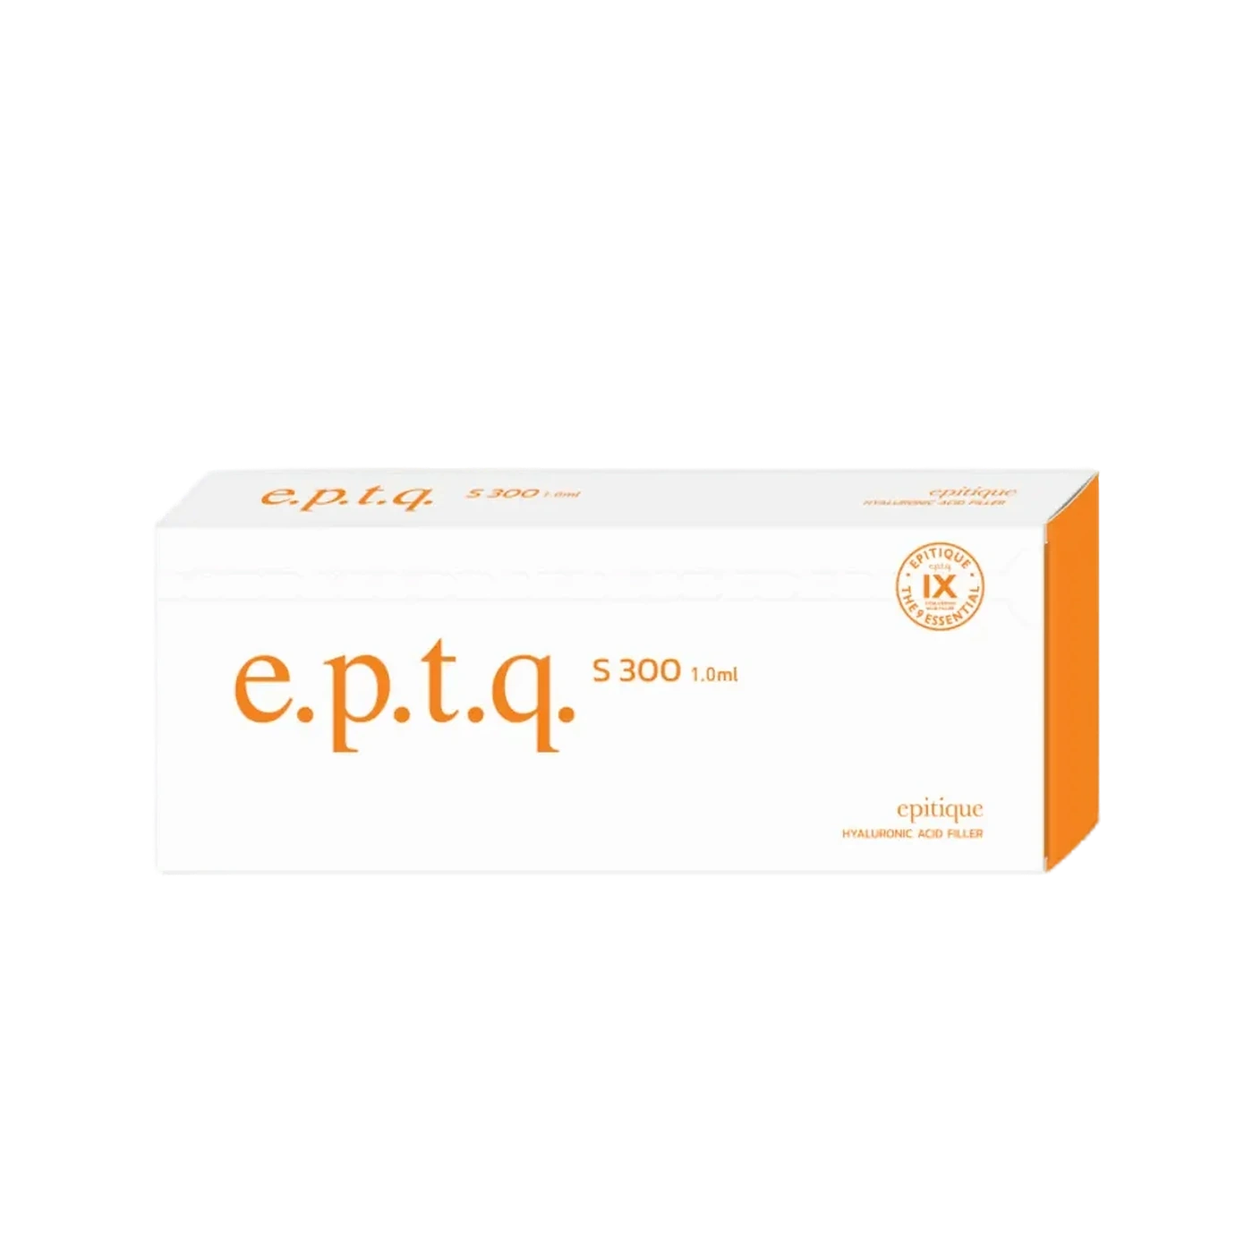
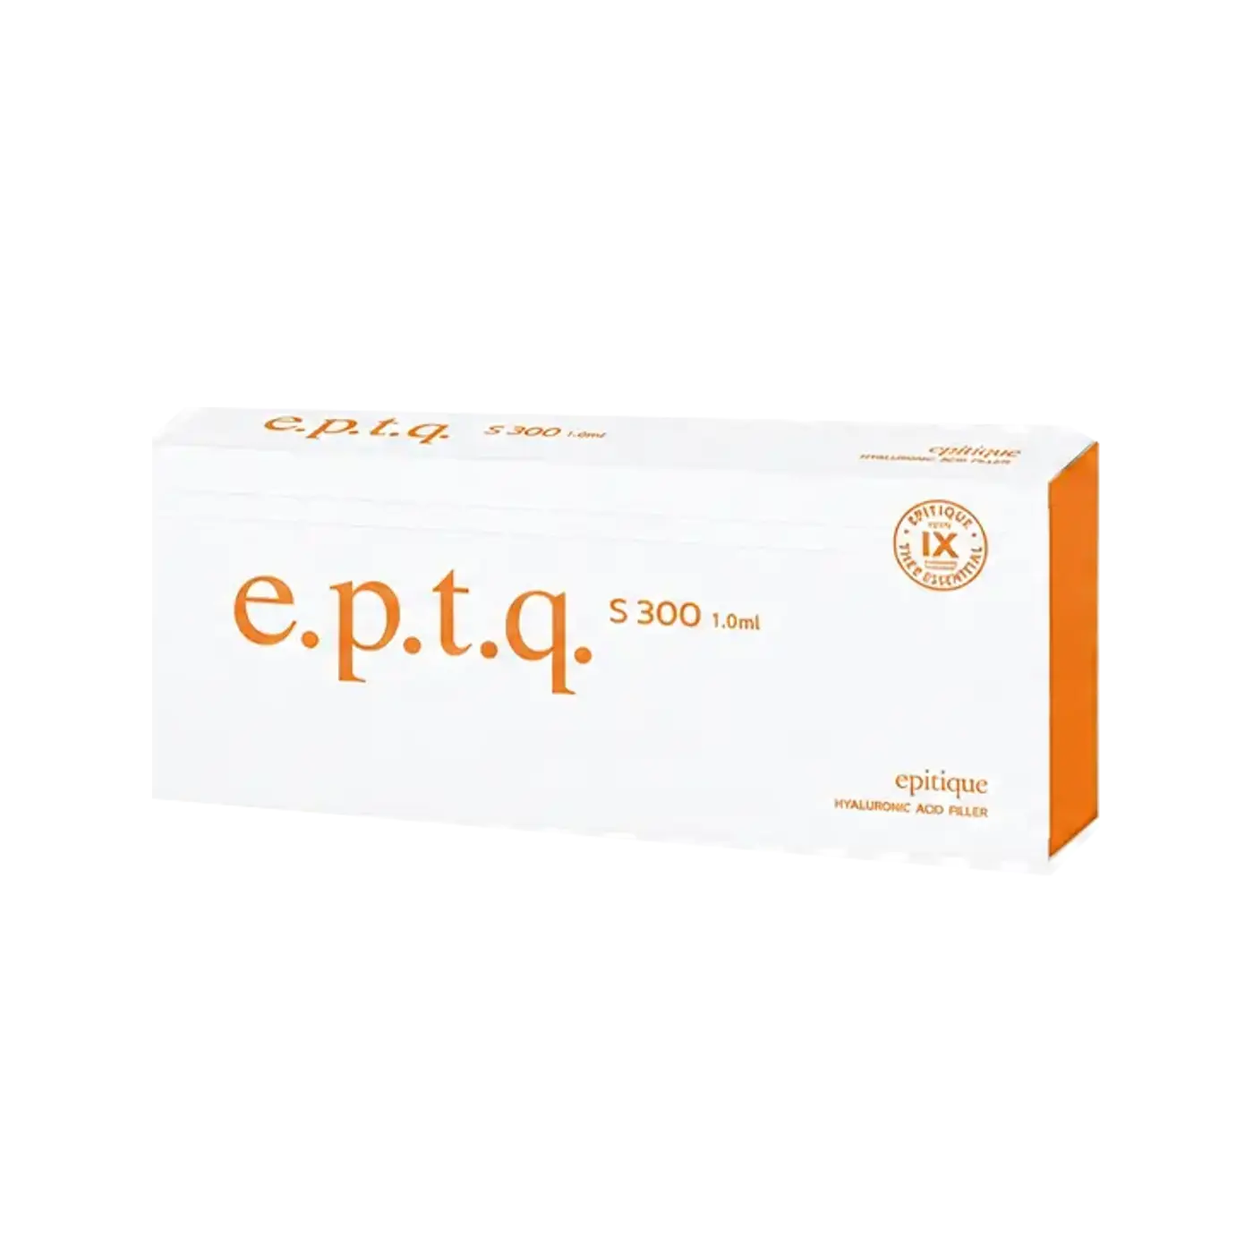
fix: align product variant imagery
Restore Neuramis 10×1 mL variants, align EPTQ family imagery, center the RABIENCA vial, and strengthen product cutout QA.

diff --git a/app/inventory/fillers.ts b/app/inventory/fillers.ts
@@ -250,7 +250,7 @@ export const fillerInventorySeeds: ProductSeed[] = [
     brand: "Neuramis / Medytox",
     category: "fillers",
     type: "خانواده فیلر نورامیس",
-    volume: "مدلهای ۱ و ۱۰ سیسی فهرست بازار",
+    volume: "مدلهای ۱ میلیلیتری و بستههای ۱۰ × ۱ میلیلیتری",
     priceToman: 2600000,
     priceNote: "حجم و مدل را انتخاب کنید",
     badge: "۴ انتخاب موجود",
@@ -260,19 +260,19 @@ export const fillerInventorySeeds: ProductSeed[] = [
     sourceName: "Medytox — NEURAMIS",
     sourceUrl: "https://www.medytox.com/page/neuramis_en?site_id=en",
     reviewedAt,
-    sourceStatus: "مدلهای رسمی یکمیلیلیتری با Medytox تطبیق شد؛ بستههای ۱۰ سیسی بازار نیازمند مشاهده جعبهاند",
-    warning: "برای گزینههای ۱۰ سیسی، تصویر و سازنده همان بسته پیش از تأیید سفارش الزامی است.",
-    summary: "نورامیس در موجودی با دو مدل یکسیسی Deep و Volume و دو عنوان بازار برای بسته ۱۰ سیسی آمده است. انتخابگر صفحه تصویر، نام، حجم، قیمت و هشدار هر گزینه را با هم عوض میکند تا بسته ۱۰ سیسی با مدل رسمی یکمیلیلیتری اشتباه نشود.",
+    sourceStatus: "واحد رسمی 1.0 mL با Medytox تطبیق شد؛ گزینههای ۱۰ میلیلیتری بهصورت بسته ۱۰ عددی نمایش داده میشوند",
+    warning: "گزینه ۱۰ میلیلیتری یک سرنگ ۱۰ میل نیست؛ مجموع ۱۰ سرنگ یکمیلیلیتری است.",
+    summary: "نورامیس در موجودی با مدلهای تکسیسی Deep و Volume و دو بسته چندتایی Deep و Lido عرضه میشود. گزینههای ۱۰ میلیلیتری بهصورت ۱۰ سرنگ یکمیلیلیتری نمایش داده میشوند تا با یک سرنگ ساختگی ۱۰ میلیلیتری اشتباه نشوند.",
     audience: professionalAudience,
-    features: ["Deep و Volume در حجم ۱ میلیلیتر", "Deep و Lido در ردیف ۱۰ سیسی بازار", "قیمت ۱ سیسی: ۲٫۶ و ۱۰ سیسی: ۶ میلیون تومان"],
-    specs: [["برند", "NEURAMIS"], ["سازنده مدلهای رسمی", "Medytox — کره جنوبی"], ["انتخابها", "Deep 1mL، Volume 1mL، Deep 10mL، Lido 10mL"]],
-    checks: ["نام مدل روی جعبه و سرنگ با گزینه انتخابشده یکسان باشد.", "برای بسته ۱۰ سیسی، سازنده و حجم از روی تصاویر کامل بسته تأیید شود.", "بچکد، تاریخ، پلمب و شرایط نگهداری همان بسته کنترل شود."],
-    faq: [{ question: "نورامیس ۱ سیسی چه مدلهایی دارد؟", answer: "در موجودی فعلی Deep و Volume با قیمت یکسان ثبت شدهاند؛ مشخصات هر کدام با انتخاب مدل نمایش داده میشود." }, { question: "بسته ۱۰ سیسی رسمی Medytox است؟", answer: "این صفحه چنین ادعایی نمیکند. نسخه ۱۰ سیسی عنوان بازار است و قبل از سفارش باید تصویر، نام سازنده و اطلاعات همان بسته تأیید شود." }],
+    features: ["Deep و Volume در حجم ۱ میلیلیتر", "Deep و Lido در بسته ۱۰ × ۱ میلیلیتری", "قیمت جداگانه برای تکواحد و بسته ۱۰ عددی"],
+    specs: [["برند", "NEURAMIS"], ["سازنده مدلهای رسمی", "Medytox — کره جنوبی"], ["انتخابها", "Deep 1mL، Volume 1mL، Deep 10×1mL، Lido 10×1mL"]],
+    checks: ["نام مدل روی جعبه و سرنگ با گزینه انتخابشده یکسان باشد.", "برای بسته ۱۰ عددی، تعداد ۱۰ سرنگ 1.0 mL روی فاکتور و بسته تأیید شود.", "بچکد، تاریخ، پلمب و شرایط نگهداری همان بسته کنترل شود."],
+    faq: [{ question: "نورامیس ۱ سیسی چه مدلهایی دارد؟", answer: "در موجودی فعلی Deep و Volume با قیمت یکسان ثبت شدهاند؛ مشخصات هر کدام با انتخاب مدل نمایش داده میشود." }, { question: "نورامیس ۱۰ میل یک سرنگ است؟", answer: "خیر. در این صفحه ۱۰ میل بهصورت بسته ۱۰ عددیِ سرنگهای یکمیلیلیتری نمایش داده میشود؛ واحد رسمی معرفیشده توسط Medytox برای هر سرنگ 1.0 mL است." }],
     variants: [
       { id: "deep-1ml", label: "Deep · ۱ سیسی", nameFa: "نورامیس دیپ ۱ سیسی", nameEn: "NEURAMIS Deep 1 mL", image: "/images/products/neuramis-deep-1ml.webp", imageAlt: "بسته نورامیس دیپ یک میلیلیتری با ادیت مینیمال", imageVerified: true, volume: "۱ سرنگ ۱ میلیلیتری", summary: "نورامیس Deep یکمیلیلیتری از مدلهای رسمی خانواده Medytox است. نام Deep و حجم 1.0 mL روی جعبه و سرنگ مبنای تحویل است.", features: ["مدل Deep", "۱ × ۱ میلیلیتر", "بسته رسمی خانواده Medytox"], specs: [["مدل", "NEURAMIS Deep"], ["حجم", "۱ × ۱ میلیلیتر"], ["سازنده", "Medytox"]], priceToman: 2600000, priceNote: "هر بسته یکسیسی", sourceName: "Medytox — NEURAMIS", sourceUrl: "https://www.medytox.com/page/neuramis_en?site_id=en" },
       { id: "volume-1ml", label: "Volume · ۱ سیسی", nameFa: "نورامیس والیوم ۱ سیسی", nameEn: "NEURAMIS Volume 1 mL", image: "/images/products/neuramis-volume-1ml.webp", imageAlt: "بسته نورامیس والیوم یک میلیلیتری با ادیت مینیمال", imageVerified: true, volume: "۱ سرنگ ۱ میلیلیتری", summary: "نورامیس Volume گزینه یکمیلیلیتری این خانواده است. برای تحویل، عبارت Volume و حجم 1.0 mL باید روی همه اجزای بسته یکسان باشد.", features: ["مدل Volume", "۱ × ۱ میلیلیتر", "قیمت همان ردیف یکسیسی"], specs: [["مدل", "NEURAMIS Volume"], ["حجم", "۱ × ۱ میلیلیتر"], ["سازنده", "Medytox"]], priceToman: 2600000, priceNote: "هر بسته یکسیسی", sourceName: "Medytox — NEURAMIS", sourceUrl: "https://www.medytox.com/page/neuramis_en?site_id=en" },
-      { id: "deep-10ml", label: "Deep · ۱۰ سیسی", nameFa: "نورامیس دیپ ۱۰ سیسی", nameEn: "NEURAMIS Deep 10 mL — market pack", image: "/images/products/neuramis-deep-1ml.webp", imageAlt: "نمای واقعی مدل نورامیس دیپ؛ بسته دهمیلیلیتری هنگام استعلام تطبیق میشود", imageVerified: false, volume: "۱۰ میلیلیتر؛ طبق فهرست موجودی", summary: "این گزینه ردیف بازار نورامیس Deep دهسیسی است. چون با بسته رسمی یکمیلیلیتری تفاوت دارد، تأیید تصویر کامل جعبه و نام سازنده پیش از فروش الزامی است.", features: ["عنوان فهرست: Deep 10cc", "نیازمند تأیید هویت بسته", "قیمت مخصوص ردیف ۱۰ سیسی"], specs: [["عنوان بازار", "NEURAMIS Deep 10cc"], ["حجم فهرست", "۱۰ میلیلیتر"], ["سازنده و کشور این بسته", "از روی بسته فعلی تأیید شود"], ["وضعیت", "تأیید بسته پیش از فروش"]], priceToman: 6000000, priceNote: "پس از تأیید تصویر بسته", sourceName: "فهرست موجودی سفید بیوتی", sourceStatus: "تصویر، مدل Deep را نشان میدهد؛ اطلاعات رسمی بسته ۱۰ سیسی در منبع Medytox پیدا نشد" },
-      { id: "lido-10ml", label: "Lido · ۱۰ سیسی", nameFa: "نورامیس لیدو ۱۰ سیسی", nameEn: "NEURAMIS Lido 10 mL — market pack", image: "/images/products/neuramis-lido-1ml.webp", imageAlt: "نمای واقعی مدل نورامیس لیدو؛ بسته دهمیلیلیتری هنگام استعلام تطبیق میشود", imageVerified: false, volume: "۱۰ میلیلیتر؛ طبق فهرست موجودی", summary: "این گزینه ردیف بازار نورامیس Lido دهسیسی است. نام کامل، وجود عبارت Lido، حجم و سازنده باید از روی همان بسته تحویلی خوانده شود.", features: ["عنوان فهرست: Lido 10cc", "نیازمند تطبیق تصویر و سازنده", "قیمت مخصوص ردیف ۱۰ سیسی"], specs: [["عنوان بازار", "NEURAMIS Lido 10cc"], ["حجم فهرست", "۱۰ میلیلیتر"], ["سازنده و کشور این بسته", "از روی بسته فعلی تأیید شود"], ["وضعیت", "تأیید بسته پیش از فروش"]], priceToman: 6000000, priceNote: "پس از تأیید تصویر بسته", sourceName: "فهرست موجودی سفید بیوتی", sourceStatus: "تصویر، مدل Lido را نشان میدهد؛ اطلاعات رسمی بسته ۱۰ سیسی در منبع Medytox پیدا نشد" },
+      { id: "deep-10ml", label: "Deep · ۱۰×۱ میل", nameFa: "نورامیس دیپ بسته ۱۰ عددی", nameEn: "NEURAMIS Deep 10 × 1 mL", image: "/images/products/neuramis-deep-10-pack.webp", imageAlt: "تصویر ادیتوریال بسته نورامیس دیپ با نشان ۱۰ سرنگ یکمیلیلیتری و مجموع ۱۰ میلیلیتر", imageVerified: false, imageKind: "editorial-family", imageApproved: true, volume: "۱۰ × ۱ میلیلیتر؛ مجموع ۱۰ میلیلیتر", summary: "این انتخاب برای بسته چندتایی نورامیس Deep است: ۱۰ سرنگ یکمیلیلیتری با مجموع ۱۰ میلیلیتر. تصویر، ادیت گرافیکی شفاف از جعبه واقعی Deep است و نشان حجم برای تشخیص سریع بسته به آن افزوده شده است.", features: ["۱۰ سرنگ یکمیلیلیتری", "مجموع ۱۰ میلیلیتر", "تصویر ادیتوریال مبتنی بر جعبه واقعی Deep"], specs: [["مدل", "NEURAMIS Deep"], ["چیدمان حجم", "۱۰ × ۱ میلیلیتر"], ["حجم مجموع", "۱۰ میلیلیتر"], ["سازنده هر واحد", "Medytox — کره جنوبی"]], priceToman: 6000000, priceNote: "برای بسته ۱۰ عددی", sourceName: "Medytox + فهرست بازار ترب", sourceUrl: "https://torob.com/p/f5620461-ac1d-4547-a737-7ab523432bef/", sourceStatus: "واحد رسمی هر سرنگ 1.0 mL است؛ تصویر ۱۰×۱ میل ادیت گرافیکی فروشگاهی است" },
+      { id: "lido-10ml", label: "Lido · ۱۰×۱ میل", nameFa: "نورامیس لیدو بسته ۱۰ عددی", nameEn: "NEURAMIS Lido 10 × 1 mL", image: "/images/products/neuramis-lido-10-pack.webp", imageAlt: "تصویر ادیتوریال بسته نورامیس لیدوکائین با نشان ۱۰ سرنگ یکمیلیلیتری و مجموع ۱۰ میلیلیتر", imageVerified: false, imageKind: "editorial-family", imageApproved: true, volume: "۱۰ × ۱ میلیلیتر؛ مجموع ۱۰ میلیلیتر", summary: "این انتخاب برای بسته چندتایی نورامیس Lido است: ۱۰ سرنگ یکمیلیلیتری با مجموع ۱۰ میلیلیتر. تصویر از جعبه واقعی Lido ساخته شده و نشان حجم ادیتوریال برای تفکیک این بسته از گزینه تکسیسی روی آن قرار گرفته است.", features: ["۱۰ سرنگ یکمیلیلیتری", "مجموع ۱۰ میلیلیتر", "تصویر ادیتوریال مبتنی بر جعبه واقعی Lido"], specs: [["مدل", "NEURAMIS Lido"], ["چیدمان حجم", "۱۰ × ۱ میلیلیتر"], ["حجم مجموع", "۱۰ میلیلیتر"], ["سازنده هر واحد", "Medytox — کره جنوبی"]], priceToman: 6000000, priceNote: "برای بسته ۱۰ عددی", sourceName: "Medytox + فهرست بازار ترب", sourceUrl: "https://torob.com/p/f5620461-ac1d-4547-a737-7ab523432bef/", sourceStatus: "واحد رسمی هر سرنگ 1.0 mL است؛ تصویر ۱۰×۱ میل ادیت گرافیکی فروشگاهی است" },
     ],
   },
   {

diff --git a/app/catalog.ts b/app/catalog.ts
@@ -836,12 +836,6 @@ const officialImageOverrides: Record<
     imageVerified: false,
     imageKind: "market-reference",
   },
-  rabianca: {
-    image: "/images/products/sourced/rabianca.webp",
-    imageAlt: "نمای بسته بادی رابیانکا ۷۰ سیسی",
-    imageVerified: false,
-    imageKind: "market-reference",
-  },
   "nabota-150": {
     image: "/images/products/sourced/nabota-150.webp",
     imageAlt: "نمای بسته بوتاکس نابوتا ۱۵۰ واحد",
@@ -1027,8 +1021,15 @@ function makeProduct(seed: ProductSeed): Product {
     imageOverride?.imageVerified ??
     seed.imageVerified ??
     false;
-  const variants = seed.variants?.map((variant) =>
-    ["10ml", "deep-10ml", "lido-10ml"].includes(variant.id)
+  const variants = seed.variants?.map((variant) => {
+    if (
+      variant.imageKind === "editorial-family" &&
+      variant.imageApproved === true
+    ) {
+      return variant;
+    }
+
+    return ["10ml", "deep-10ml", "lido-10ml"].includes(variant.id)
       ? {
           ...variant,
           imageAlt: `نمای مرجع بسته ${variant.nameFa}؛ حجم و جزئیات بسته هنگام استعلام تطبیق میشود`,
@@ -1036,8 +1037,8 @@ function makeProduct(seed: ProductSeed): Product {
           imageKind: "market-reference" as const,
           imageApproved: true,
         }
-      : variant,
-  );
+      : variant;
+  });
   const sourceStatus = seed.sourceStatus ?? (seed.warning
     ? "نیازمند تطبیق پیش از انتشار قطعی"
     : "اطلاعات اولیه بازار؛ در انتظار تطبیق رسمی");

diff --git a/app/ui-audit.css b/app/ui-audit.css
@@ -251,7 +251,7 @@ body h4 {
   --category-motif: radial-gradient(circle at 82% 18%, rgba(var(--category-accent-rgb), .16), transparent 29%);
   --category-stage-art: url("/images/product-stages/fillers.webp");
   --product-cutout-floor: 70%;
-  --product-stage-floor: 78.5%;
+  --product-stage-floor: 79.3%;
 }
 
 :is(.sb-product-card, .sb-product-detail, .sb-category-page, .sb-featured-carousel__slide)[data-category="fillers"] {
@@ -262,7 +262,7 @@ body h4 {
   --category-stage: radial-gradient(ellipse at 16% 86%, rgba(173,102,117,.22), transparent 34%), radial-gradient(ellipse at 82% 12%, rgba(229,185,174,.4), transparent 30%), linear-gradient(145deg, #fffaf9, #f5e3e7);
   --category-motif: radial-gradient(ellipse at 14% 32%, transparent 0 16%, rgba(180,111,124,.17) 16.4% 16.9%, transparent 17.3%), radial-gradient(ellipse at 87% 76%, transparent 0 22%, rgba(180,111,124,.13) 22.4% 22.9%, transparent 23.3%);
   --category-stage-art: url("/images/product-stages/fillers.webp");
-  --product-stage-floor: 78.5%;
+  --product-stage-floor: 79.3%;
 }
 
 :is(.sb-product-card, .sb-product-detail, .sb-category-page, .sb-featured-carousel__slide)[data-category="skin-boosters"] {

diff --git a/scripts/audit-product-cutouts.py b/scripts/audit-product-cutouts.py
@@ -15,6 +15,8 @@ EXPECTED_FLOOR_Y = 980
 MAX_WIDTH = 1060
 MAX_HEIGHT = 780
 TOLERANCE = 2
+FAMILY_SIZE_TOLERANCE = 0.08
+MAX_CENTER_OFFSET = 3
 
 
 def main() -> None:
@@ -48,12 +50,16 @@ def main() -> None:
                 failures.append(f"{label}: content={width}x{height}")
             if min(left, top, EXPECTED_CANVAS[0] - right) < 12:
                 failures.append(f"{label}: unsafe canvas margin bbox={bbox}")
+            center_x = (left + right) / 2
+            if abs(center_x - EXPECTED_CANVAS[0] / 2) > MAX_CENTER_OFFSET:
+                failures.append(f"{label}: horizontal center={center_x:.1f}")
 
     eptq = [
         CUTOUT_ROOT / "eptq/eptq-s100.webp",
         CUTOUT_ROOT / "eptq/eptq-s300.webp",
         CUTOUT_ROOT / "eptq/eptq-s500.webp",
     ]
+    eptq_sizes: list[tuple[int, int]] = []
     for path in eptq:
         with Image.open(path).convert("RGBA") as image:
             bbox = image.getchannel("A").point(
@@ -61,6 +67,53 @@ def main() -> None:
             ).getbbox()
             if bbox and (bbox[2] - bbox[0]) <= (bbox[3] - bbox[1]):
                 failures.append(f"{path.relative_to(ROOT)}: EPTQ variant is not landscape")
+            if bbox:
+                eptq_sizes.append((bbox[2] - bbox[0], bbox[3] - bbox[1]))
+
+    if len(eptq_sizes) == len(eptq):
+        widths = [width for width, _ in eptq_sizes]
+        heights = [height for _, height in eptq_sizes]
+        if (max(widths) - min(widths)) / max(widths) > FAMILY_SIZE_TOLERANCE:
+            failures.append(f"EPTQ widths are inconsistent: {widths}")
+        if (max(heights) - min(heights)) / max(heights) > FAMILY_SIZE_TOLERANCE:
+            failures.append(f"EPTQ heights are inconsistent: {heights}")
+
+    neuramis_ten_pack_sizes: list[tuple[int, int]] = []
+    for relative in (
+        "neuramis-deep-10-pack.webp",
+        "neuramis-lido-10-pack.webp",
+    ):
+        path = CUTOUT_ROOT / relative
+        if not path.exists():
+            failures.append(f"{path.relative_to(ROOT)}: required storefront cutout is missing")
+            continue
+        with Image.open(path).convert("RGBA") as image:
+            bbox = image.getchannel("A").point(
+                lambda value: 255 if value >= 12 else 0,
+            ).getbbox()
+            if bbox:
+                neuramis_ten_pack_sizes.append(
+                    (bbox[2] - bbox[0], bbox[3] - bbox[1]),
+                )
+
+    if len(neuramis_ten_pack_sizes) == 2:
+        for dimension, values in (
+            ("widths", [size[0] for size in neuramis_ten_pack_sizes]),
+            ("heights", [size[1] for size in neuramis_ten_pack_sizes]),
+        ):
+            if (max(values) - min(values)) / max(values) > FAMILY_SIZE_TOLERANCE:
+                failures.append(f"Neuramis 10-pack {dimension} are inconsistent: {values}")
+
+    rabianca = CUTOUT_ROOT / "rabianca-70ml.webp"
+    if not rabianca.exists():
+        failures.append(f"{rabianca.relative_to(ROOT)}: required storefront cutout is missing")
+    else:
+        with Image.open(rabianca).convert("RGBA") as image:
+            bbox = image.getchannel("A").point(
+                lambda value: 255 if value >= 12 else 0,
+            ).getbbox()
+            if bbox and (bbox[3] - bbox[1]) <= (bbox[2] - bbox[0]):
+                failures.append(f"{rabianca.relative_to(ROOT)}: vial is not upright")
 
     if failures:
         print("Product image audit failed:")
